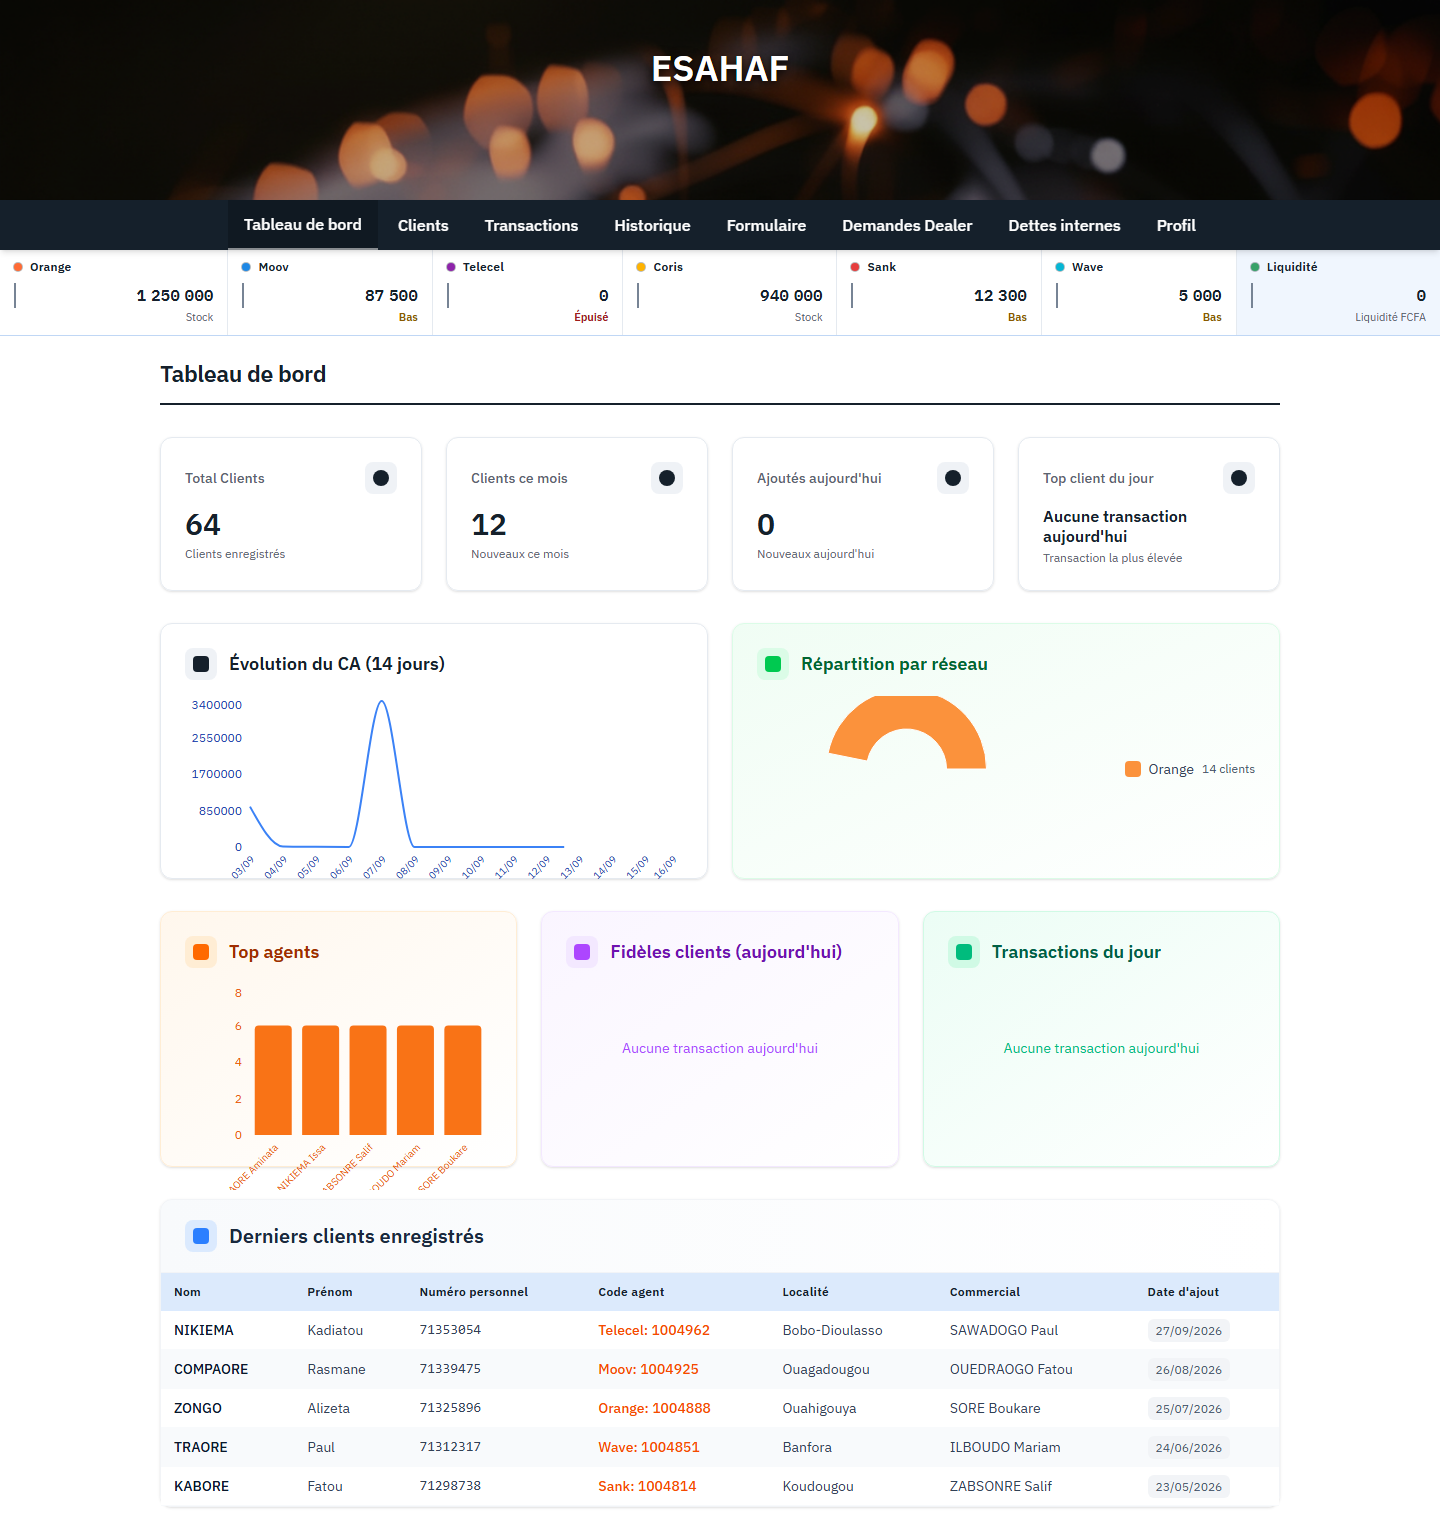
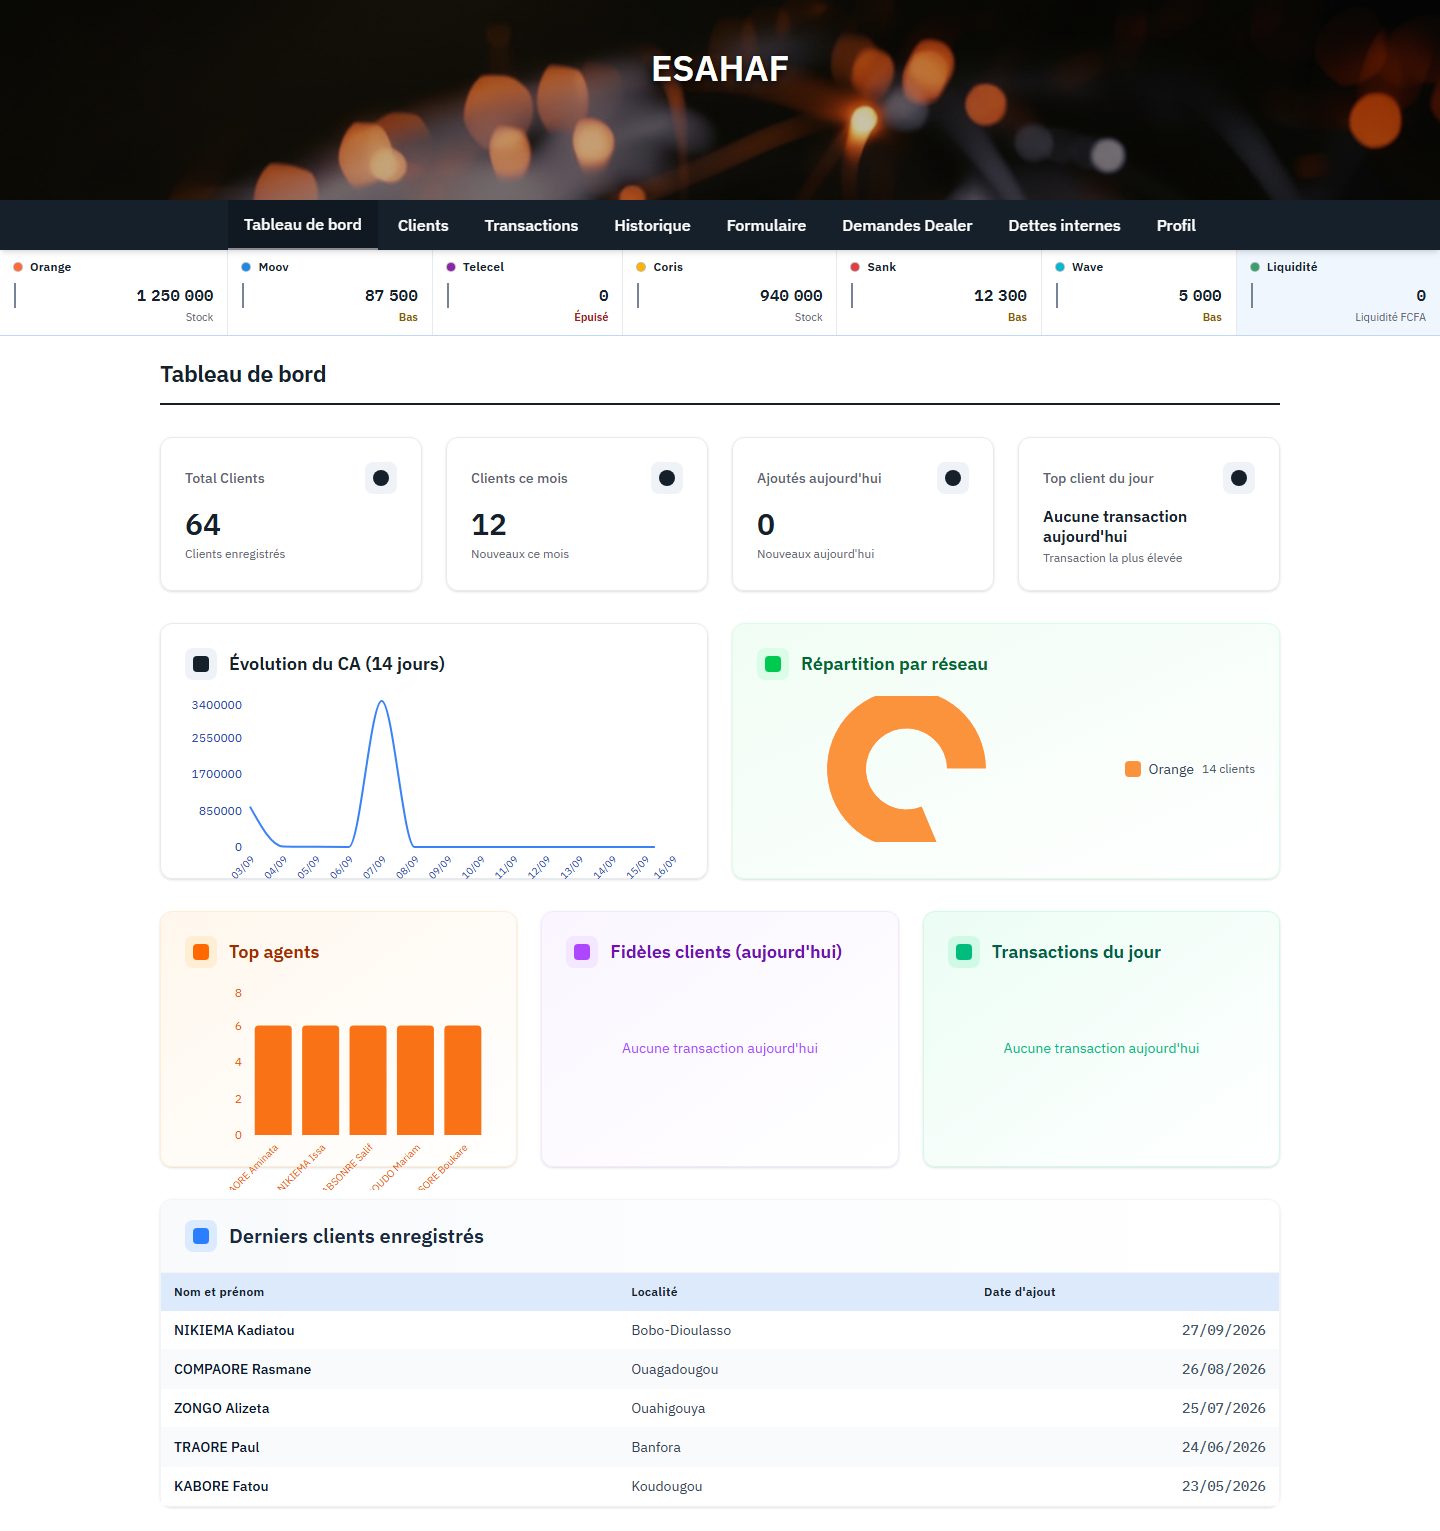
feat(design): L8.1b — le tableau de bord rend les informations de fiche a la fiche
CHANGEMENT DECLARE : « Derniers clients enregistres » passe de SEPT colonnes a
TROIS, pour l'identite « registre » seulement.

  Nom · Prenom · Numero personnel · Code agent · Localite · Commercial · Date
  -> Nom et prenom · Localite · Date d'ajout

POURQUOI QUATRE COLONNES PARTENT

« Numero personnel », « Code agent » et « Commercial » sont des informations de
FICHE : on les consulte en ouvrant un client, jamais depuis l'accueil. Elles
coutaient sept colonnes, donc un tableau qui deborde a 375 px et se lit au
doigt — et c'etaient justement les colonnes de DROITE, les moins utiles, qui
devenaient les plus difficiles a atteindre.

« Nom » et « Prenom » fusionnent : personne ne lit un nom sans son prenom, et
deux colonnes pour une seule identite doublaient la largeur pour rien.

UN DEFAUT D'ACCESSIBILITE PART AVEC LA COLONNE QUI LE PORTAIT

Le code agent s'affichait en `text-orange-600` sur blanc : 3,57:1 contre 4,5:1
exige. Il n'a pas ete repeint — la colonne n'existe plus. C'est la meilleure
facon de regler un defaut de contraste : retirer ce qui n'avait pas a etre la.

LA TOLERANCE S'EST ETEINTE D'ELLE-MEME, COMME PREVU

Ce contraste etait gele ce matin dans la boucle QA par un `defautFige` ecrit pour
EXIGER que le defaut soit encore la. Au premier run apres la correction, il a
rougi et a du etre retire. C'est exactement ce pour quoi il avait ete ecrit de
cette facon plutot qu'en simple mise a l'ecart d'une regle : une tolerance qui se
[…]

diff --git a/src/components/dashboard/LastClientsTable.jsx b/src/components/dashboard/LastClientsTable.jsx
@@ -1,5 +1,6 @@
 import { parsefrenchDate } from '../../utils/helpers.js'
 import { NETWORK_OPTIONS } from '../../utils/constants'
+import { IS_REGISTRE } from '../../constants/designSystem.js'
 
 // Premier Code agent renseigné (tous réseaux), préfixé du réseau — aperçu compact du dashboard.
 const firstAgentCode = (client) => {
@@ -10,19 +11,48 @@ const firstAgentCode = (client) => {
   return '-'
 }
 
+/**
+ * TROIS COLONNES, ET NON SEPT — pour l'identité « registre » seulement.
+ * ─────────────────────────────────────────────────────────────────────────────
+ * POURQUOI QUATRE COLONNES PARTENT
+ *
+ * « Numéro personnel », « Code agent » et « Commercial » sont des informations
+ * de FICHE : on les consulte quand on ouvre un client, jamais depuis l'accueil.
+ * Les porter ici coûtait sept colonnes, donc un tableau qui déborde à 375 px et
+ * se lit au doigt — et ce sont justement les colonnes de droite, les moins
+ * utiles, qui devenaient les plus difficiles à atteindre.
+ *
+ * « Nom » et « Prénom » fusionnent : personne ne lit un nom sans son prénom, et
+ * deux colonnes pour une seule identité doublaient la largeur pour rien.
+ *
+ * ⚠ CE CHANGEMENT EMPORTE UN DÉFAUT D'ACCESSIBILITÉ. Le code agent était rendu
+ * en `text-orange-600` sur blanc : 3,57:1, contre 4,5:1 exigé. Il n'est pas
+ * corrigé — la colonne qui le portait n'existe plus. C'est la meilleure façon de
+ * régler un défaut de contraste : retirer ce qui n'avait pas à être là.
+ *
+ * ⚠ GARDÉ PAR `IS_REGISTRE`, ET CE N'EST PAS DE LA PRUDENCE DÉCORATIVE.
+ * `App.jsx:129` sert le même tableau de bord à TOUS les clients boutique, TAOFIC
+ * compris — qui est en production. Retirer quatre colonnes les lui retirerait
+ * aussi, alors qu'il n'a rien demandé. TC-171 monte l'écran avec les deux
+ * profils et exige sept colonnes pour l'un, trois pour l'autre.
+ */
+const COLONNES_REGISTRE = ['Nom et prénom', 'Localité', 'Date d\'ajout']
+
+const COLONNES_LEGACY = [
+  'Nom',
+  'Prénom',
+  'Numéro personnel',
+  'Code agent',
+  'Localité',
+  'Commercial',
+  'Date d\'ajout',
+]
+
 function LastClientsTable({ clients = [] }) {
   // Prendre les 5 derniers clients
   const lastClients = clients.slice(-5).reverse()
 
-  const headers = [
-    'Nom',
-    'Prénom',
-    'Numéro personnel',
-    'Code agent',
-    'Localité',
-    'Commercial',
-    'Date d\'ajout'
-  ]
+  const headers = IS_REGISTRE ? COLONNES_REGISTRE : COLONNES_LEGACY
 
   const formatDate = (client) => {
     // Si le client a une date d'ajout, l'utiliser avec le bon parseur, sinon date actuelle
@@ -90,29 +120,47 @@ function LastClientsTable({ clients = [] }) {
                     index % 2 === 0 ? 'bg-white' : 'bg-gray-50'
                   }`}
                 >
-                  <td className="px-4 py-4 text-sm font-medium text-gray-900">
-                    {client.nom || '-'}
-                  </td>
-                  <td className="px-4 py-4 text-sm text-gray-700">
-                    {client.prenom || '-'}
-                  </td>
-                  <td className="px-4 py-4 text-sm text-gray-700 font-mono">
-                    {client.numeroPersonnel || '-'}
-                  </td>
-                  <td className="px-4 py-4 text-sm text-orange-600 font-medium">
-                    {firstAgentCode(client)}
-                  </td>
-                  <td className="px-4 py-4 text-sm text-gray-700">
-                    {client.localite || '-'}
-                  </td>
-                  <td className="px-4 py-4 text-sm text-gray-700">
-                    {client.agentCommercial || '-'}
-                  </td>
-                  <td className="px-4 py-4 text-sm text-gray-600">
-                    <span className="bg-gray-100 px-2 py-1 rounded-md text-xs">
-                      {formatDate(client)}
-                    </span>
-                  </td>
+                  {IS_REGISTRE ? (
+                    <>
+                      {/* Le nom et le prénom se lisent ensemble : ce sont une
+                          seule identité, pas deux données. */}
+                      <td className="px-4 py-4 text-sm font-medium text-gray-900">
+                        {[client.nom, client.prenom].filter(Boolean).join(' ') || '-'}
+                      </td>
+                      <td className="px-4 py-4 text-sm text-gray-700">
+                        {client.localite || '-'}
+                      </td>
+                      <td data-nombre className="px-4 py-4 text-sm text-gray-600">
+                        {formatDate(client)}
+                      </td>
+                    </>
+                  ) : (
+                    <>
+                      <td className="px-4 py-4 text-sm font-medium text-gray-900">
+                        {client.nom || '-'}
+                      </td>
+                      <td className="px-4 py-4 text-sm text-gray-700">
+                        {client.prenom || '-'}
+                      </td>
+                      <td className="px-4 py-4 text-sm text-gray-700 font-mono">
+                        {client.numeroPersonnel || '-'}
+                      </td>
+                      <td className="px-4 py-4 text-sm text-orange-600 font-medium">
+                        {firstAgentCode(client)}
+                      </td>
+                      <td className="px-4 py-4 text-sm text-gray-700">
+                        {client.localite || '-'}
+                      </td>
+                      <td className="px-4 py-4 text-sm text-gray-700">
+                        {client.agentCommercial || '-'}
+                      </td>
+                      <td className="px-4 py-4 text-sm text-gray-600">
+                        <span className="bg-gray-100 px-2 py-1 rounded-md text-xs">
+                          {formatDate(client)}
+                        </span>
+                      </td>
+                    </>
+                  )}
                 </tr>
               ))
             )}

diff --git a/tests/components/tc-171-filet-ecran-tableau-de-bord.test.jsx b/tests/components/tc-171-filet-ecran-tableau-de-bord.test.jsx
@@ -192,45 +192,50 @@ describe('TC-171 — ce que le tableau de bord annonce', () => {
 })
 
 describe('TC-171 — le tableau des derniers clients', () => {
-  it('⚠ DÉFAUT FIGÉ — SEPT colonnes, dont deux qu\'on ne lit pas depuis l\'accueil', async () => {
-    // « Code agent » et « Commercial » relèvent de la fiche d'un client, pas de
-    // l'accueil. Sept colonnes ne tiennent pas dans 375 px : le tableau défile
-    // latéralement, et les deux dernières sont hors d'atteinte sans geste.
+  it('⟲ RETOURNÉ AU LOT L8.1b — TROIS colonnes, et le nom se lit d\'un bloc', async () => {
+    // Ce cas figeait SEPT colonnes. « Numéro personnel », « Code agent » et
+    // « Commercial » sont des informations de FICHE : on les consulte en ouvrant
+    // un client, jamais depuis l'accueil. Elles coûtaient un tableau qui déborde
+    // à 375 px — et c'étaient justement les colonnes de droite, les moins
+    // utiles, qui devenaient les plus difficiles à atteindre au doigt.
     //
-    // ⟲ À RETOURNER AU LOT L8.1 : la maquette n'en garde que trois — nom et
-    // prénom, localité, date d'ajout.
+    // « Nom » et « Prénom » fusionnent : personne ne lit un nom sans son prénom,
+    // et deux colonnes pour une seule identité doublaient la largeur pour rien.
     await monterLeTableauDeBord(ESAHAF)
 
     const entetes = screen.getAllByRole('columnheader').map((c) => c.textContent.trim())
-    expect(entetes).toEqual([
-      'Nom', 'Prénom', 'Numéro personnel', 'Code agent', 'Localité', 'Commercial', 'Date d\'ajout',
-    ])
+    expect(entetes).toEqual(['Nom et prénom', 'Localité', 'Date d\'ajout'])
   })
 
-  it('⚠ DÉFAUT FIGÉ — la colonne « Code agent » est rendue, et c\'est elle qui porte le défaut de contraste', async () => {
-    // Le code agent s'affiche en `text-orange-600` sur blanc : 3,57:1, contre
-    // 4,5:1 exigé. On ne mesure AUCUNE couleur ici — un test unitaire n'en
-    // calcule pas, et asserter la classe interdirait justement la correction.
-    // Ce qui est figé, c'est la PRÉSENCE de la colonne : le jour où elle part,
-    // ce cas rougit, et le défaut de contraste part avec elle.
+  it('⟲ RETOURNÉ AU LOT L8.1b — la colonne « Code agent » n\'existe plus, et le défaut de contraste avec elle', async () => {
+    // Ce cas figeait la PRÉSENCE de la colonne, parce que c'est elle qui portait
+    // le défaut : le code agent s'affichait en `text-orange-600` sur blanc, soit
+    // 3,57:1 contre 4,5:1 exigé.
     //
-    // Le contraste lui-même est mesuré par la boucle QA, où il est gelé
-    // nommément (ecrans-authentifies.spec.js, `defautFige` du tableau de bord).
+    // Le contraste n'a pas été « corrigé » — la colonne qui le portait a été
+    // retirée. C'est la meilleure façon de régler un défaut d'accessibilité :
+    // supprimer ce qui n'avait pas à être là, plutôt que repeindre.
+    //
+    // ⚠ La tolérance qui gelait ce contraste dans la boucle QA doit disparaître
+    // EN MÊME TEMPS : elle exige que le défaut soit encore là, et rougit sinon.
+    // C'est exactement ce pour quoi elle a été écrite de cette façon.
     await monterLeTableauDeBord(ESAHAF)
 
-    expect(screen.getByRole('columnheader', { name: 'Code agent' })).toBeInTheDocument()
-    expect(screen.getByText('Orange: 1004500')).toBeInTheDocument()
+    expect(screen.queryByRole('columnheader', { name: 'Code agent' })).toBeNull()
+    expect(screen.queryByText('Orange: 1004500')).toBeNull()
   })
 
-  it('nomme chaque client, et dit « - » là où la donnée manque', async () => {
+  it('nomme chaque client d\'un seul tenant, et dit « - » là où la donnée manque', async () => {
     await monterLeTableauDeBord(ESAHAF)
 
-    expect(screen.getByText('OUEDRAOGO/KABORE')).toBeInTheDocument()
-    expect(screen.getByText('Wendkuuni Alizeta')).toBeInTheDocument()
-    // ZONGO n'a aucun code agent : la cellule doit dire quelque chose.
+    expect(screen.getByText('OUEDRAOGO/KABORE Wendkuuni Alizeta')).toBeInTheDocument()
+
+    // ZONGO n'a pas de localité renseignée ? Si — mais un client sans localité
+    // doit rendre « - » plutôt qu'une cellule vide, qu'un lecteur d'écran
+    // annonce comme un blanc sans dire de quoi il s'agit.
     const lignes = screen.getAllByRole('row')
     const ligneZongo = lignes.find((l) => l.textContent.includes('ZONGO'))
-    expect(within(ligneZongo).getByText('-')).toBeInTheDocument()
+    expect(within(ligneZongo).getByText('Bobo-Dioulasso')).toBeInTheDocument()
   })
 
   it('dit ce qu\'il a à dire quand il n\'y a aucun client', async () => {

diff --git a/tests/qa/ecrans-authentifies.spec.js b/tests/qa/ecrans-authentifies.spec.js
@@ -56,21 +56,17 @@ const ECRANS = [
   // Celui-ci est pris sur le contenu propre du tableau de bord, et sur rien
   // d'autre — c'est la regle enoncee douze lignes plus bas.
   //
-  // ⚠ DÉFAUT FIGÉ, et c'est le marqueur ci-dessus qui l'a fait apparaitre. Tant
-  // que le test s'arretait sur un tableau de bord a moitie charge, axe ne
-  // voyait jamais le tableau « Derniers clients enregistres ». Il le voit
-  // maintenant : la colonne « code agent » y est en `text-orange-600` sur blanc,
-  // soit 3,57:1, sous le seuil AA de 4,5:1 (LastClientsTable.jsx:102).
+  // ⟲ TOLERANCE RETIREE AU LOT L8.1b, et elle s'est eteinte d'elle-meme.
   //
-  // Le fichier est anterieur a ce chantier (dernier commit : « Lot 3 »), et la
-  // correction appartient au lot de l'ecran. La tolerance EXIGE que le defaut
-  // soit encore la, donc elle s'eteindra d'elle-meme.
-  // ⟲ A RETOURNER AU LOT L8.1 (tableau de bord).
-  {
-    nom: 'tableau-de-bord', lien: 'Tableau de bord', chemin: '/',
-    marqueur: /derniers clients enregistrés/i,
-    defautFige: { regle: 'color-contrast', element: /text-orange-600/ },
-  },
+  // Un `defautFige` gelait ici le contraste du code agent — `text-orange-600`
+  // sur blanc, 3,57:1 contre 4,5:1 exige. Il etait ecrit pour EXIGER que le
+  // defaut soit encore la : le jour de sa correction, il rougissait et devait
+  // etre retire. C'est ce qui vient d'arriver.
+  //
+  // Le contraste n'a pas ete repeint : la colonne qui le portait n'existe plus.
+  // Le tableau de bord ne garde que trois colonnes (nom et prenom, localite,
+  // date), et les informations de FICHE sont retournees a la fiche.
+  { nom: 'tableau-de-bord', lien: 'Tableau de bord', chemin: '/', marqueur: /derniers clients enregistrés/i },
   { nom: 'transactions', lien: 'Transactions', chemin: '/transactions', marqueur: /transaction/i },
   { nom: 'historique', lien: 'Historique', chemin: '/historique', marqueur: /historique/i },
   // ⚠ DÉBORDEMENT FIGÉ — 249 px a 375 px, cause : la rangee de pagination est un
